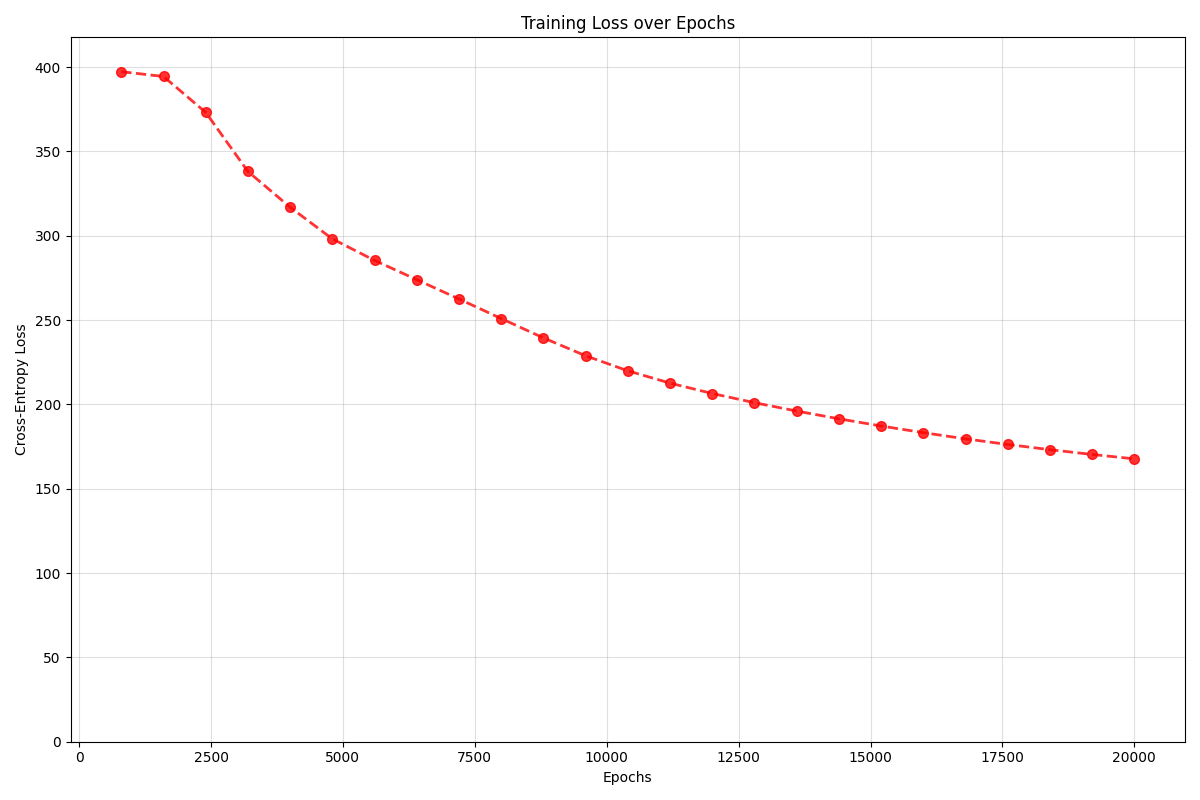
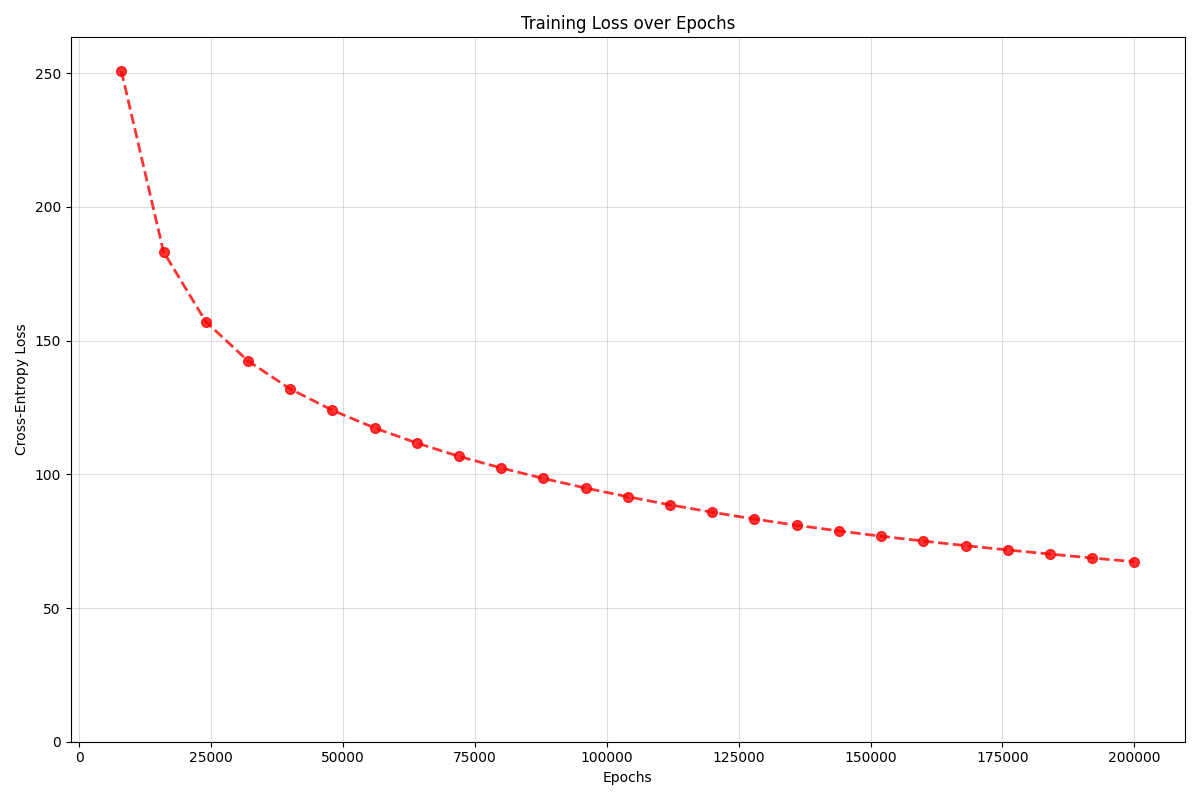
change default hyperparameters to reasonable values

diff --git a/src/utils.py b/src/utils.py
@@ -47,7 +47,7 @@ def plot_loss_curve(losses, save_file):
         markersize=7,
         alpha=0.8,
     )
-    plt.ylim(0, max(losses) * 1.05)
+    plt.ylim(0, max(sampled_losses) * 1.05)
 
     plt.xlabel("Epochs")
     plt.ylabel("Cross-Entropy Loss")

diff --git a/src/config/constants.py b/src/config/constants.py
@@ -8,6 +8,6 @@ CONFIG_DIR = ROOT_DIR / "src" / "config"
 CONTEXT_WINDOW_SIZE = 2
 EMBEDDING_DIMENSION = 2
 LEARNING_RATE = 0.005
-SAVE_EVERY = 1_000
+SAVE_EVERY = 2_000
 BATCH_SIZE = 16
-NUMBER_OF_EPOCHS = 20_000
+NUMBER_OF_EPOCHS = 200_000
